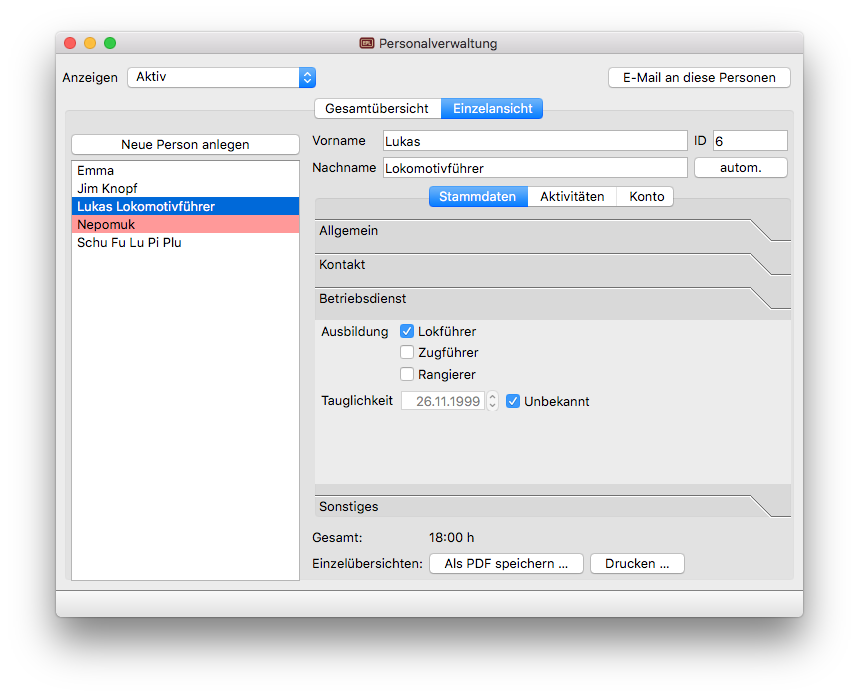
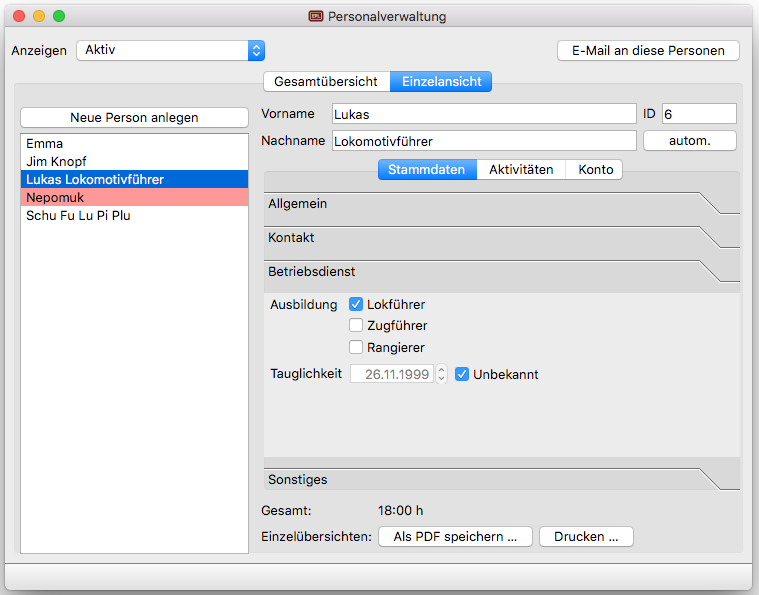
Dokumentation angepasst
- Dokumentation für Version 1.6.1 ergänzt
- Changelog korrigiert
- Personalverwaltung in Mitgleiderverwaltung umbenannt
- Version auf Release umgestellt

Closes #88

Changed region(s): [[0.0, 0.0, 1.0, 1.0]]

diff --git a/Dokumentation/src/allgemein/personal.tex b/Dokumentation/src/allgemein/personal.tex
@@ -1,20 +1,23 @@
-\chapter{Personal}\label{personal}
+\chapter{\neu{Mitglieder}}\label{personal}
 Im Kopf des Fensters kann eingestellt werden welche Personen angezeigt werden sollen.
 Ebenso kann durch einen Knopfdruck eine E-Mail an alle angezeigten Personen erstellt werden.
-Werden bei dieser Aktion Personen gefunden, für die kein Mailadresse angegeben ist,
+Werden bei dieser Aktion Personen gefunden, für die keine Mailadresse angegeben ist,
 so können die angegebenen Postadressen in einer CSV-Datei gespeichert werden.
 Diese Daten können dann z.B.\ für Serienbriefe genutzt werden.
 
-\section{Gesamtübersicht}\label{personal:gesamtansicht}
+\section{\neu{Einsatzzeiten}}\label{personal:zeiten}
 \begin{figure}[!h]
 	\includegraphics[width=\textwidth]{img/personal_gesamt}
-	\caption{Die Personalverwaltung in der Gesamtübersicht.}
-	\label{fig:personal:gesamt}
+	\caption{\neu{Die Mitgliederverwaltung mit den Einsatzzeiten.}}
+	\label{fig:personal:zeiten}
 \end{figure}
-In der Tabelle von Abbildung~\ref{fig:personal:gesamt} wird eine Übersicht über alle in der Kopfzeile ausgewählten Personen gegeben.
+In der Tabelle von Abbildung~\ref{fig:personal:zeiten} wird eine Übersicht über alle in der Kopfzeile ausgewählten Personen gegeben.
 Die Einfärbung erfolgt anhand der mindestens zu erbringenden Stunden.
-Rot bedeuted hierbei, dass die Person ihre Stunden noch nicht erbracht hat.
-Eine weiße Markierung bestätigt, dass die Mindesstunden erbracht wurden, oder keine solchen gefordert sind (z.B.\ bei passiven Mitglieder).
+Rot bedeutet hierbei, dass die Person ihre Stunden noch nicht erbracht hat.
+Eine weiße Markierung bestätigt, dass die Mindeststunden erbracht wurden, oder keine solchen gefordert sind (z.B.\ bei passiven Mitglieder).
+\neu{Für aktive Mitglieder gilt, dass sie in die Kategorie "`Aktiv mit Stunden"' fallen, sobald die Mindeststunden für "`Gesamt"' erreicht wurden.
+Die persönlichen Mindeststunden für Lokführer werden hierbei nicht berücksichtigt.
+Dennoch werden diese Personen auch rot markiert.}
 Passive Mitglieder, die Stunden geleistet haben, werden grün markiert.
 Durch einen Doppelklick auf den Eintrag einer Person in der Tabelle wird die entsprechende Einzelansicht geöffnet.
 
@@ -25,7 +28,7 @@ Diese Zeile ist in der Ausgabe ebenso enthalten.
 
 
 Mit den Knöpfen "`Tabelle als PDF speichern \dots"' und "`Tabelle drucken \dots"' kann man die Daten der Tabelle exportieren.
-Diese Funktionen sind auch im Menü "`Eportieren"' verfügbar.
+Diese Funktionen sind auch im Menü "`Exportieren"' verfügbar.
 
 
 \paragraph{Mindeststunden}
@@ -59,7 +62,7 @@ In der Liste sind alle Personen gelistet, die nach der Kopfzeile des Fenster ang
 Die farbliche hervorhebung erfolgt analog zur Gesamtübersicht.
 Im oberen Teil können der Name und die Mitgliedsnummer der Person verändert werden.
 Alternativ zu manuellen Eingabe der Nummer, kann auch eine solche automatisch zugewiesen werden.
-Dabei wird die die nächst größere Zahl der aktuell höchsten Mitgliedsnummer verwendet.
+Dabei wird die nächst größere Zahl der aktuell höchsten Mitgliedsnummer verwendet.
 Naturgemäß kann eine Nummer nicht doppelt vergeben werden.
 
 Mit den Knöpfen "`Als PDF speichern \dots"' und "`Drucken\dots"' kann eine Übersicht der aktuellen Person ausgegeben werden.
@@ -115,3 +118,20 @@ Ebenso kann man sehen, in welchen Gebieten die Person ihre Pflichtstunden erfül
 
 \hinweis{Für alle Darstellungen und Berechnungen werden nur die Zeiten angerechnet, die bisher auch wirklich abgeleistet wurden,
 also deren Datum in der Vergangenheit lag.}
+
+
+\section{\neu{Mitgliederliste}}\label{personal:mitglieder}
+\begin{figure}[!h]
+	\includegraphics[width=\textwidth]{img/mitgliederliste}
+	\caption{\neu{Die Mitgliederliste mit allen ausgewählten Mitgliedern.}}
+	\label{fig:personal:mitglieder}
+\end{figure}
+\neu{In der Tabelle aus Abbildung~\ref{fig:personal:mitglieder} werden alle gespeicherten Daten der ausgewählten Mitglieder angezeigt.
+Diese Tabelle kann über das Menü "`Exportieren"' unter dem Punkt "`Mitgliederliste"' ausgegeben werden.
+Die Ausgabe ist auch als CSV-Datei möglich, sodass die Daten in anderen Programmen verarbeitet werden können.
+
+Ebenso besteht die Möglichkeit über den Eintrag "`Personalblatt"' die Daten eines Mitglieds bzw.\ aller angezeigten Personen auszugeben.
+Hierbei wird für jede Person eine Seite erzeugt und kann somit auch für jede Person getrennt gespeichert werden.
+
+Darüber hinaus wird im unteren Bereich des Fensters eine Statistik der aktuellen und ausgetretenen Mitglieder angezeigt.
+}

diff --git a/Dokumentation/src/export/export.tex b/Dokumentation/src/export/export.tex
@@ -29,7 +29,7 @@ Diese Einzelansicht kann für jede Aktivität auch im entsprechenden Fenster dir
 Ein Fahrtag bietet noch eine weitere Methode Informationen zu exportieren.
 Diese Funktion wird vor allem bei Nikolausfahrten benötigt.
 Denn bei diesem Ausgabeformat werden viele Reservierungen übersichtlich nach Wagen sortiert ausgegeben.
-Diese Funktion ist insbesodnere bei Nikolausfahrten wichtig, da dort keine Reservierungen in der Einzelansicht ausgegeben werden.
+Diese Funktion ist insbesondere bei Nikolausfahrten wichtig, da dort keine Reservierungen in der Einzelansicht ausgegeben werden.
 
 Diese Funktion ist für jeden Fahrtag über das Menü "`Fahrtag"' erreichbar.
 Es gibt die Möglichkeit das Dokument entweder als PDF zu speichern oder auf einem Drucker zu drucken.
@@ -38,18 +38,18 @@ Das exportierte Dokument enthält folgende Informationen zu einer Reservierung: 
 
 
 
-\section{Einsatzzeiten des Personals}
-Es stehen folgende Übersichten zur Verfügung, die alle über das Menü "`Exportieren"' im Fenster des Personalmanagements aufgerufen werden können:
+\section{Einsatzzeiten der Mitglieder}
+Es stehen folgende Übersichten zur Verfügung, die alle über das Menü "`Exportieren"' im Fenster des \neu{Mitgliederverwaltung} aufgerufen werden können:
 \begin{description}
-  \item[Gesamtübersicht des Personals]
+  \item[\neu{Einsatzzeiten der Mitglieder}]
   Alle in der Tabelle angezeigten Informationen werden in der angegebenen Sortierung ausgegeben.
   Diese Ausgabemöglichkeit ist auch über die zwei Knöpfe in der Gesamtübersicht verfügbar.
   \item[Einzelansicht der aktuellen Person]
   Es werden nur die Einsatzzeiten der aktuell in der Einzelansicht angezeigten Person ausgegeben.
   Dieses Format enthält die Aktivitäten, die Einsatzzeiten und Mindeststunden für die jeweilige Person.
   Ebenso wird die betriebliche Ausbildung (sofern vorhanden und Tauglichkeit gegeben) und die Entfernung zum Bahnhof angegeben.
-  \item[Einzelansichten des Personals]
-  Erstellt eine Übersciht wie unter Punkt zwei für jede in der Liste/Tabelle angezeigt Person nach Name sortiert.
+  \item[\neu{Einzelansichten der Mitglieder}]
+  Erstellt eine Übersicht wie unter Punkt zwei für jede in der Liste/Tabelle angezeigt Person nach Name sortiert.
   Alle Übersichten werden in einer Datei zusammengefasst und durch eine Übersicht ergänzt, welche die Summe aller geleisteten Stunden umfasst.
   Dort sind auch die Mindeststunden der einzelnen Kategorien angegeben.
 \end{description}
@@ -58,8 +58,9 @@ Es stehen folgende Übersichten zur Verfügung, die alle über das Menü "`Expor
 
 \section{Mitglieder}
 Über das Export-Menü im Fenster für das Personalmanagement kann eine umfassende Mitgliederliste ausgegeben werden.
-In dieser Liste sind alle Personen enthalten, die im System registriert sind.
+In dieser Liste sind alle Personen enthalten, die aktuell im Personalfenster angezeigt werden.
 Ausgegeben werden dabei alle Personenbezogenen Daten, die im Programm verwaltet werden.
 Einsatzzeiten und geleistete Stunden sind in diesen Ansichten nicht enthalten.
 
 Ebenso können diese Daten auch als CSV-Datei ausgegeben werden, um sie in anderen Programmen weiter zu verarbeiten.
+\neu{Auch können die persönlichen Daten auch nur für die aktuelle Person ausgegeben werden.}

diff --git a/Dokumentation/src/verschiedenes/sonstiges.tex b/Dokumentation/src/verschiedenes/sonstiges.tex
@@ -1,8 +1,8 @@
 \chapter{Sonstiges}\label{sonstiges}
 \section{Informationen zum Update von Version 1.5 auf 1.6}
 \label{sonstiges:1.5-1.6}
-In Version 1.6 wurden verschiedene Neuerungen eingeführt, die eine gesonderte Btrachtung erfordern.
-Diese Neuerungen werden im folgenden bschrieben.
+In Version 1.6 wurden verschiedene Neuerungen eingeführt, die eine gesonderte Betrachtung erfordern.
+Diese Neuerungen werden im Folgenden beschrieben.
 
 
 \paragraph{Personaldaten}
@@ -19,7 +19,7 @@ Für diese Personen werden nach dem Austritt selbstverständlich keine Mindestst
 Ebenso können sie nach dem Austritt auch nicht mehr für Arbeitseinsätze oder Fahrtage eingetragen werden.
 
 Eine weitere Neuerung ist die \emph{Mitgliedsnummer}.
-Beim erstmaligen Öffnen einer Datei, die mit einer führeren Programmversion erstellt wurde, wird jeder registrierten Person eine fortlaufende Nummer zugewiesen.
+Beim erstmaligen Öffnen einer Datei, die mit einer früheren Programmversion erstellt wurde, wird jeder registrierten Person eine fortlaufende Nummer zugewiesen.
 Diese Nummer kann nachträglich geändert werden, um sie an die eigene Bedürfnisse anzupassen.
 Da naturgemäß jede Nummer nur einmal vergeben werden kann,
 kann es beim Ändern der Nummer zu Kollisionen kommen.
@@ -32,16 +32,16 @@ so wird ihr automatisch die nächste Nummer größer als die aktuell größte ve
 \paragraph{Personaleintrag bei Aktivitäten}
 Bei früheren Programmversionen war es nicht möglich eine Person mehrfach in einer Aktivität (Fahrtag oder Arbeitseinsatz) einzutragen.
 Dies ist ab sofort möglich.
-Allerdings muss hierzu die entsprechende Aufgabe der person verschieden sein.
+Allerdings muss hierzu die entsprechende Aufgabe der Person verschieden sein.
 So kann zum Beispiel eine Person als Tf und als Zf eingetragen werden.
-Allerdings sollte dann die Zeiten für die enstprechenden Tätigkeiten angepasst werden,
+Allerdings sollte dann die Zeiten für die entsprechenden Tätigkeiten angepasst werden,
 da sonst die Zeiten der Person mehrfach angerechnet werden (jeweils für jede Tätigkeit).
 
 
 
 
 \section{Über das Dokument}
-Die Bilder in dieser Dokumentation stammen von Bildern der Entwicklerversionen des Programms für Version 1.6.0 und aus früheren Versionen.
+Die Bilder in dieser Dokumentation stammen von Bildern der Entwicklerversionen des Programms für Version 1.6.1 und aus früheren Versionen.
 Dadurch können Programmobjekte und Funktionen leicht von denen in der veröffentlichten Version abweichen.
 
 Eine aktuelle Version des Programms und weitere Informationen finden Sie der Webseite \url{http://epl.philipp-schepper.de}

diff --git a/Dokumentation/src/version/v1-6.tex b/Dokumentation/src/version/v1-6.tex
@@ -45,3 +45,48 @@ Veröffentlicht am 02.05.2020
   \item
   Verschiedene kleinere Fehler behoben.
 \end{itemize}
+
+
+\subsection{Version 1.6.1}
+\label{version:1:6:1}
+Veröffentlicht am 06.08.2020
+\subsubsection{Neu}
+\begin{itemize}
+  \item
+  Beim Export der Mitglieder werden nur noch die Mitglieder ausgegeben, die aktuell auch angezeigt werden.
+  \item
+  Die Personaldaten werden im Personalfenster in einer Übersicht angezeigt.
+  \item
+  Eine Statistik zeigt unter anderem an, wie viele Mitglieder aktiv oder passiv sind.
+  \item
+  Aktive werden nur noch anhand der geleisteten Gesamtstunden bewertet.
+  Die Markierung der nicht erbrachten Mindeststunden für andere Kategorien bleibt aber bestehen.
+  \item
+  Die Sortierung der Namen in der Personalübersicht kann zwischen "`Vorname Nachname"' und "`Nachname, Vorname"' eingestellt werden.
+  \item
+  Die Personaldaten können auch als Detailansicht ausgegeben werden, ohne die Liste für alle Mitglieder ausgeben zu müssen.
+\end{itemize}
+
+\subsubsection{Verbessert}
+\begin{itemize}
+  \item
+  Beim Löschen von Personen wurde eine Sicherheitsabfrage eingefügt, um versehentliches Löschen von Personen zu vermeiden.
+  \item
+  Mail-Adressen, die mehreren Mitgliedern zugeordnet sind, führen nicht mehr dazu, dass evtl. mehrere Mails an diese Adresse gesendet werden.
+  \item
+  Bei der Eingabe von Namen werden führende und abschließende Leerzeichen ignoriert.
+  \item
+  Per Knopfdruck kann jetzt auch eine Mail an eine einzelne Person geschrieben werden.
+\end{itemize}
+
+\subsubsection{Fehlerbehebungen}
+\begin{itemize}
+  \item
+  Die hochgeladene Datei wird wieder im Querformat dargestellt.
+  \item
+  Personal, dass der Tätigkeit "`Infrastruktur"' zugeordnet ist, wird wieder in der Listenansicht ausgegeben.
+  \item
+  Behebt einen Fehler, bei dem das Programm abstürzt, wenn bestimmte Personen von Aktivitäten gelöscht werden.
+  \item
+  Behebt einen Fehler, durch den die eingegebenen Verbindungsdaten zum EPL-Server nicht überprüft wurden.
+\end{itemize}

diff --git a/Dokumentation/src/allgemein/fahrtage.tex b/Dokumentation/src/allgemein/fahrtage.tex
@@ -52,7 +52,7 @@ Auch hier gibt es wieder Ausnahmen, wenn einer der folgenden Begriffe in der Bem
 \end{itemize}
 Darüber hinaus können weitere Bemerkungen eingegeben werden, die auch durch Strichpunkte voneinander getrennt sein dürfen.
 
-\hinweis{Wenn eine Person mehrfach eingetragen werden soll, muss die für verschiedene Tätigkeiten (z.B.\ Tf und Zf) eingetragen werden.
+\hinweis{Wenn eine Person mehrfach eingetragen werden soll, muss sie für verschiedene Tätigkeiten (z.B.\ Tf und Zf) eingetragen werden.
 Die Zeiten sollten dann für jede Tätigkeit angepasst werden, da diese sonst mehrfach angerechnet werden.}
 
 
@@ -70,16 +70,16 @@ Sie wird dann in das Formular geladen. Dort können Sie die zugehörigen Informa
 
 Die Sitzplätze müssen in folgendem Format angegeben werden:
 Zuerst der Wagen und dann die Sitzplätze durch Kommata getrennt.
-Aufeinanderfolgende Sitzplatznummern können Sie durch das Format Von-Bis schreiben (Beispiel: \texttt{208: 60-12}).
+Aufeinanderfolgende Sitzplatznummern können Sie durch das Format Von-Bis schreiben (Beispiel: \texttt{208: 6-12}).
 Wenn Sie Plätze in mehreren Wagen angeben möchten,
 müssen Sie die Plätze durch einen Strickpunkt voneinander trennen
 (Beispiel: \texttt{204: 1-40; 217: 1-30}).
 
 
 Die Fahrtstrecke kann dabei in zwei nichtzusammenhängende Teilstrecken unterteilt werden.
-Im Folgenden finden Sie mögliche Beispiele, wei Fahrtstrecken optimal eingegeben werden können:
+Im Folgenden finden Sie mögliche Beispiele, wie Fahrtstrecken optimal eingegeben werden können:
 \begin{itemize}
-	\item Gruppe fährt in Zug 2202 von Ottweiler nach Schwarzerden und danach direkt wieder mit Zug 2203 zurück nach Ottweiler.\\
+	\item Eine Gruppe fährt in Zug 2202 von Ottweiler nach Schwarzerden und danach direkt wieder mit Zug 2203 zurück nach Ottweiler.\\
 	Eingeben als:
 	\begin{verbatim}Strecke 1  (2202 SOTW-SSWN) (Ottweiler)
            (2203 SSWN-SOTW) (Ottweiler)

diff --git a/Dokumentation/src/export/upload.tex b/Dokumentation/src/export/upload.tex
@@ -18,10 +18,10 @@ Durch diesen öffnet sich der Abschnitt in Abbildungn~\ref{fig:uploadtool}.
   Diese Funktion ist nur verfügbar, wenn sie in den Programmeinstellungen aktiviert wurde (siehe Kapitel~\ref{einstellungen}.
   \item
   Unter Server, Pfad und ID geben Sie die Daten an, die Ihnen von Ihrem Webmaster mitgeteilt wurden.
-  Bei Server ist zwingend das Protokoll (http bzw.\ https) mit anzugeben, da sonst ein Upload nicht funktioniert!
+  \neu{Bei Server ist das Protokoll mit anzugeben, sofern es sich nicht um \texttt{https} handelt, also \texttt{http} verwendet wird.}
   \item
   Mit dem Knopf können Sie testen, ob die Eingaben korrekt sind und eine Verbindung zum Server aufgebaut werden kann.
-  Dabei werden keine Daten der Aktivtäten übermittelt.
+  Dabei werden keine Daten der Aktivitäten übermittelt.
 \end{itemize}
 Die drei letzten Einstellungen werden benötigt, wenn die Listenansicht automatisch hochgeladen werden soll.
 Sie können einstellen, in welchem Zeitraum die Aktivitäten liegen müssen, damit Sie eingeschlossen werden.

diff --git a/Dokumentation/src/verschiedenes/einstellungen.tex b/Dokumentation/src/verschiedenes/einstellungen.tex
@@ -32,3 +32,8 @@ Hier können Sie einstellen, ob beim manuellen Speichern eine Listenansicht auf 
 Dies setzt voraus, dass die entsprechende Option in den Einstellungen für die Einsatzplaner-Datei auch aktiviert ist
 (siehe Kapitel~\ref{upload}).
 Unabhängig von diesen Einstellungen können Sie die Ansicht jederzeit über die Exportfunktion (Kapitel~\ref{export:aktivitaeten}) hochladen.
+
+
+\section{\neu{Anzeige Namen}}
+\neu{Es kann eingestellt werden, wie die Namen der Personen in der Mitgliederübersicht angezeigt und sortiert werden.
+Die Änderung wird beim nächsten Aktualisieren der Mitgliederverwaltung wirksam und erfordert keinen Neustart.}

diff --git a/Dokumentation/src/anleitung.tex b/Dokumentation/src/anleitung.tex
@@ -12,10 +12,12 @@
 
 \usepackage{graphicx,tabularx}
 \usepackage{textcomp}
+\usepackage{xcolor}
 
 \newcommand{\nach}{\xspace\textrightarrow\xspace}
 \newcommand{\cmnd}[1]{\texttt{#1}\xspace}
 \newcommand{\hinweis}[1]{\emph{\textbf{Hinweis:} #1}}
+\newcommand{\neu}[1]{{\color{red} #1}}
 
 \graphicspath{{./img/}}
 
@@ -23,7 +25,7 @@
 
 \subject{\centering\includegraphics{../../Icon/keks.png}}
 \title{Anleitung Einsatzplaner}
-\subtitle{Version 1.6}
+\subtitle{Version 1.6.1}
 \author{Philipp Schepper}
 \date{Stand: \today}
 %\publishers{\Huge{\textsf{Arbeitsdatei}}}

diff --git a/Dokumentation/src/vorne_u_hinten/aenderungen.tex b/Dokumentation/src/vorne_u_hinten/aenderungen.tex
@@ -5,5 +5,10 @@
   \hline
   02.05.2020 &
     Dokument für Version 1.6 komplett neu herausgegeben.\newline
-    Wichtige Informationen zur Aktualisierung von Version 1.5 auf 1.6 in Kapitel~\ref{sonstiges:1.5-1.6}.
+    Wichtige Informationen zur Aktualisierung von Version 1.5 auf 1.6 in Kapitel~\ref{sonstiges:1.5-1.6}.\\
+  \hline
+  06.08.2020 &
+    Version 1.6.1 eingefügt.\newline
+    Veränderungen hauptsächlich in Kapitel~\ref{personal}.
+    Ansonsten überwiegend Fehlerbehebungen.
 \end{tabularx}

diff --git a/Dokumentation/src/version/versionshistorie.tex b/Dokumentation/src/version/versionshistorie.tex
@@ -1,8 +1,8 @@
 \chapter{Versionshistorie}\label{version}
-\input{version/v1-0}
-\input{version/v1-1}
-\input{version/v1-2}
-\input{version/v1-3}
-\input{version/v1-4}
-\input{version/v1-5}
+% \input{version/v1-0}
+% \input{version/v1-1}
+% \input{version/v1-2}
+% \input{version/v1-3}
+% \input{version/v1-4}
+% \input{version/v1-5}
 \input{version/v1-6}

diff --git a/Programm/personalwindow.cpp b/Programm/personalwindow.cpp
@@ -21,7 +21,7 @@ PersonalWindow::PersonalWindow(QWidget *parent, ManagerPersonal *m) : QMainWindo
 
     // Initalisieren der Statischen variablen
     manager = m;
-    setWindowTitle(tr("Personalverwaltung"));
+    setWindowTitle(tr("Mitgliederverwaltung"));
 
     personToItem = QHash<Person*, QListWidgetItem*>();
     enabled = false;

diff --git a/Programm/main.cpp b/Programm/main.cpp
@@ -7,7 +7,7 @@
 
 int main(int argc, char *argv[])
 {
-    CoreApplication a(argc, argv, {1, 6, 1}, true, GIT_CURRENT_SHA1);
+    CoreApplication a(argc, argv, {1, 6, 1}, false, GIT_CURRENT_SHA1);
 
     QTranslator qtTranslator;
     qtTranslator.load(":/translations/qt_" + QLocale::system().name());
